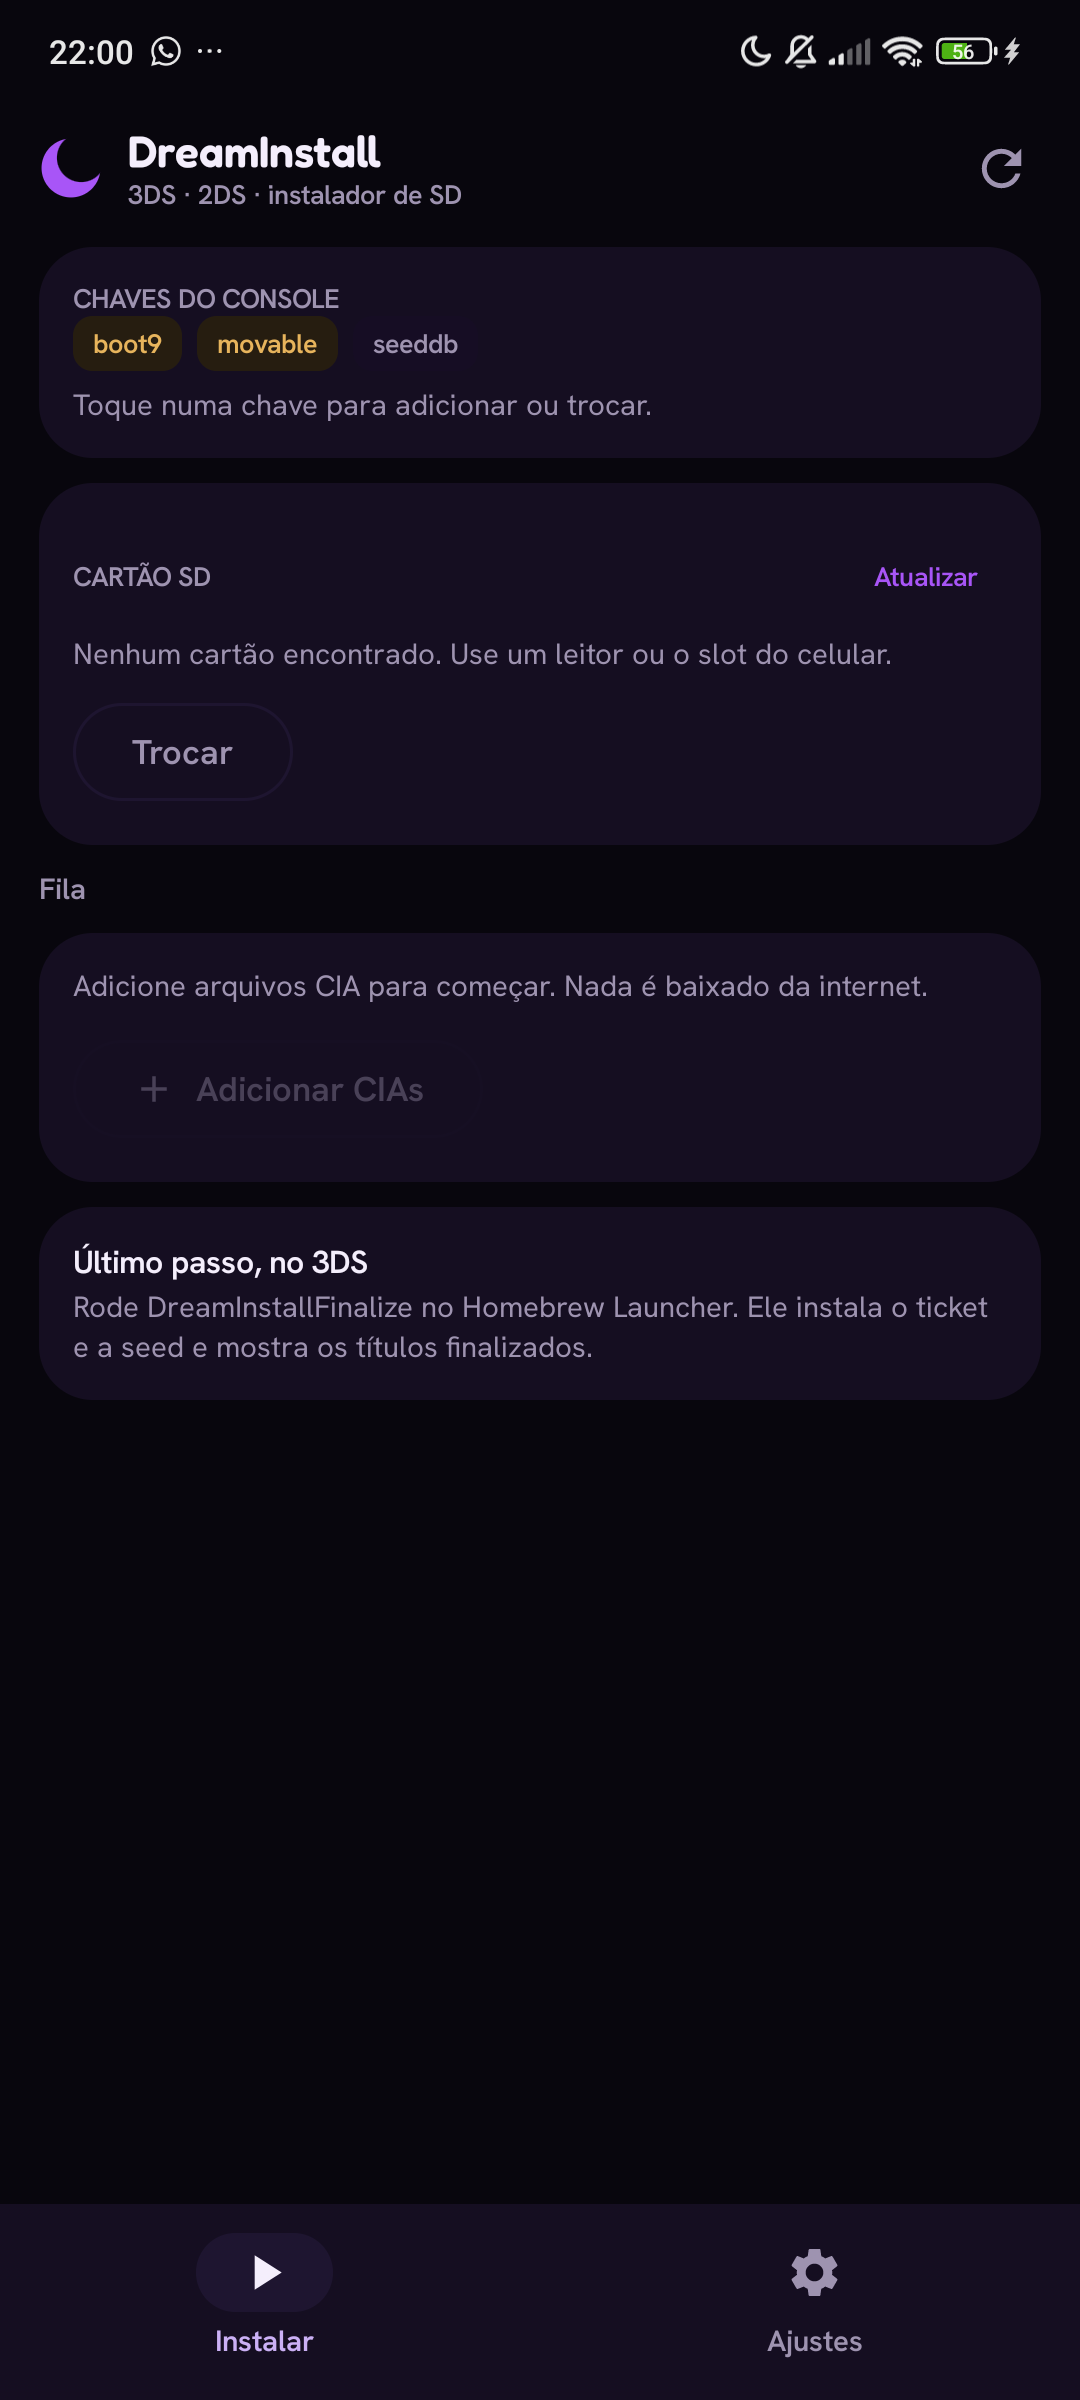
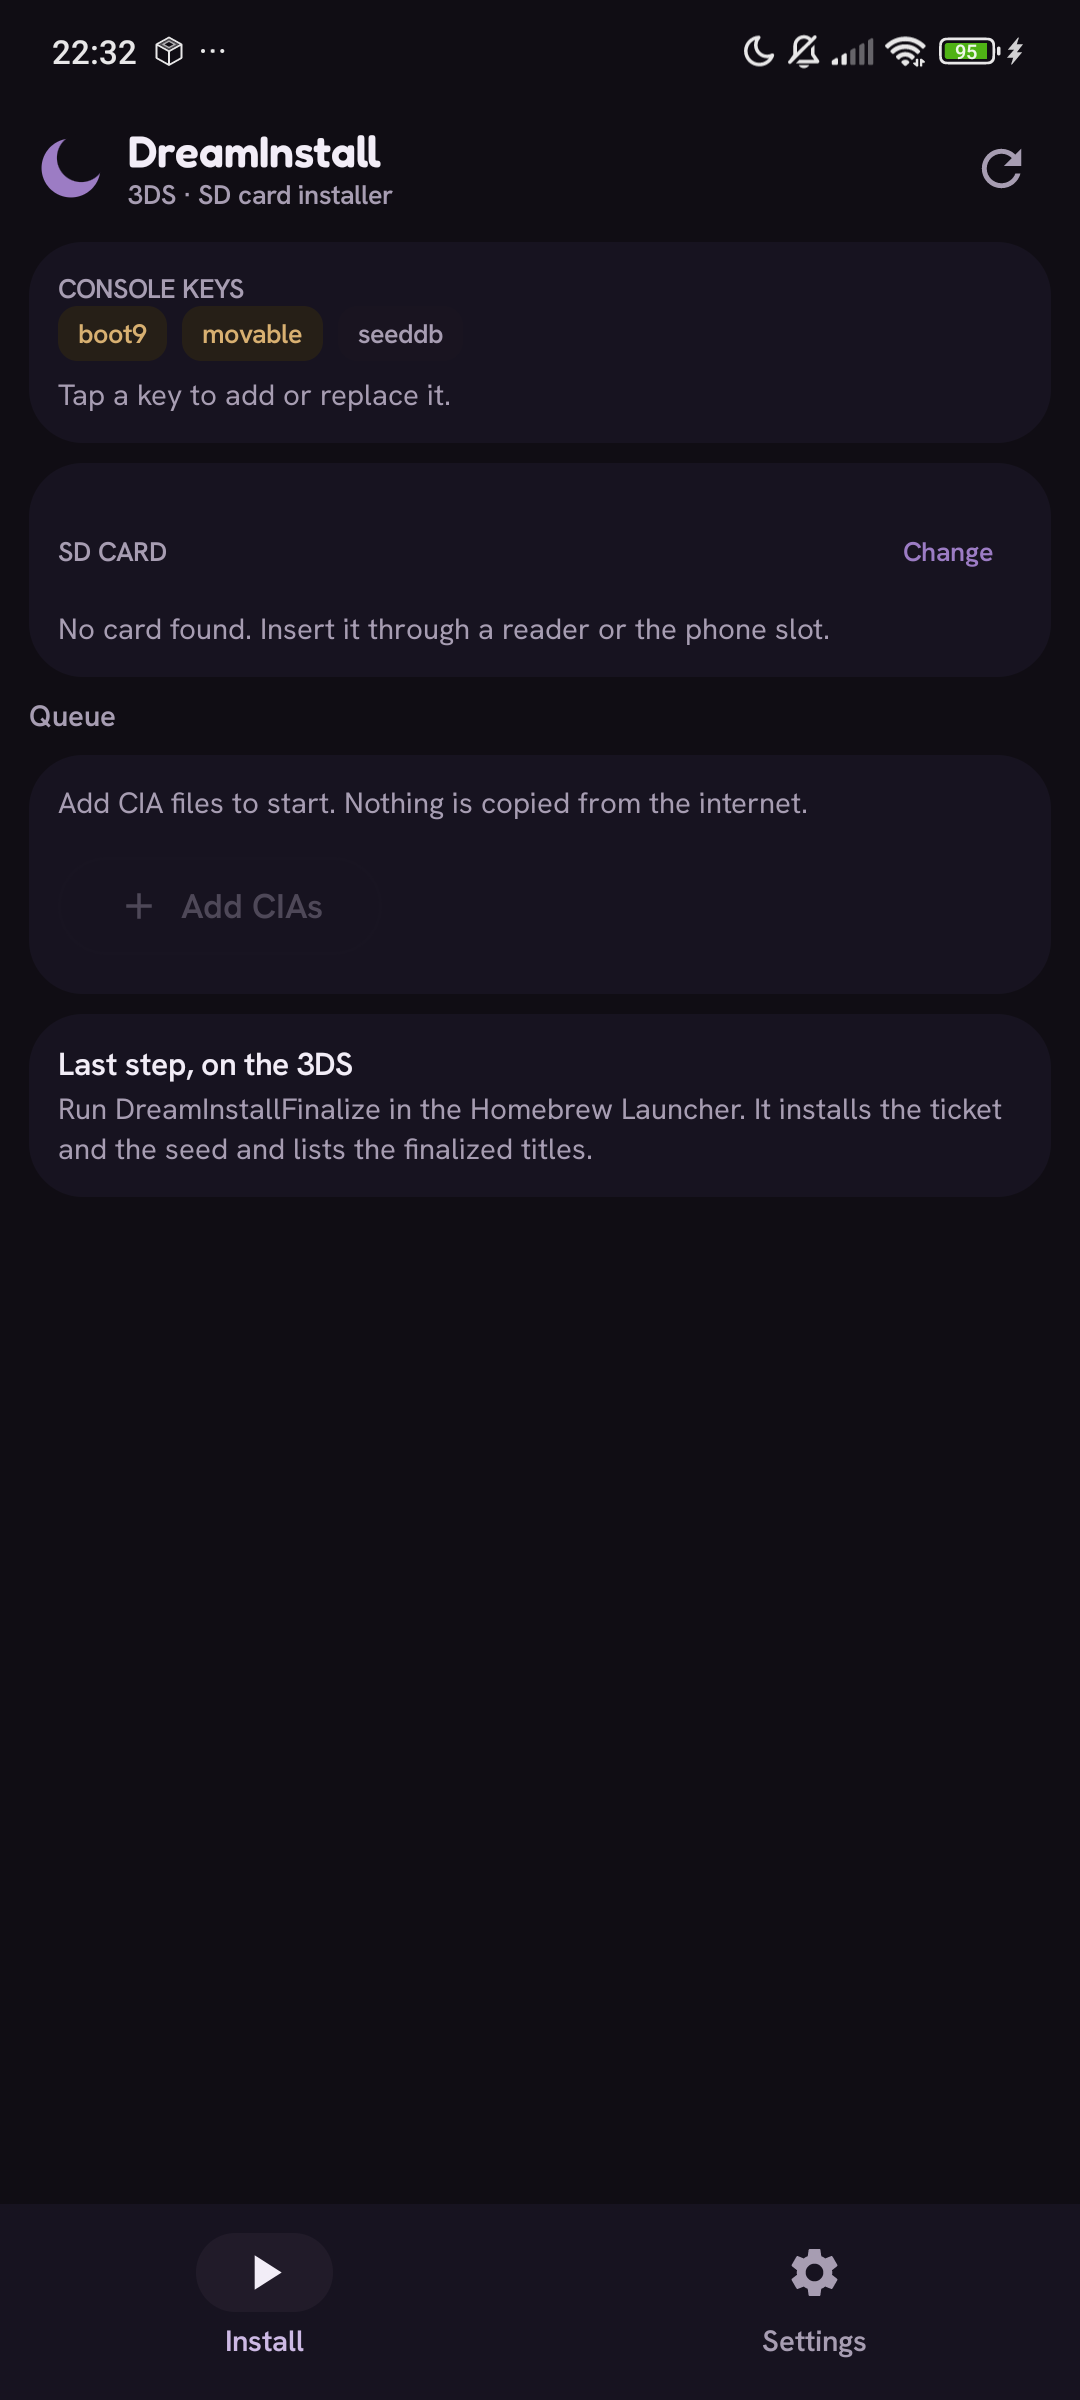
DreamInstall 1.4.1: muted violet palette and compact Material 3 layout

diff --git a/android/app/src/main/java/dev/oni/dreaminstall/ui/InstallScreen.kt b/android/app/src/main/java/dev/oni/dreaminstall/ui/InstallScreen.kt
@@ -77,6 +77,7 @@ import dev.oni.dreaminstall.core.TitleKind
 import dev.oni.dreaminstall.core.TitleState
 import dev.oni.dreaminstall.core.UpdateInfo
 import dev.oni.dreaminstall.core.formatSize
+import dev.oni.dreaminstall.ui.theme.LocalPalette
 import java.io.File
 import java.util.Locale
 import kotlin.math.max
@@ -145,12 +146,12 @@ fun InstallScreen(vm: AppViewModel, modifier: Modifier = Modifier) {
         LazyColumn(
             modifier = Modifier.fillMaxSize(),
             contentPadding = PaddingValues(
-                start = 16.dp,
-                end = 16.dp,
-                top = 4.dp,
-                bottom = if (queue.isNotEmpty() && !install.running) 92.dp else 24.dp,
+                start = 12.dp,
+                end = 12.dp,
+                top = 2.dp,
+                bottom = if (queue.isNotEmpty() && !install.running) 88.dp else 20.dp,
             ),
-            verticalArrangement = Arrangement.spacedBy(10.dp),
+            verticalArrangement = Arrangement.spacedBy(8.dp),
         ) {
             if (!granted) {
                 item { GrantCard(onOpenSettings = vm::openAllFilesSettings) }
@@ -199,7 +200,6 @@ fun InstallScreen(vm: AppViewModel, modifier: Modifier = Modifier) {
                     root = selectedRoot,
                     layoutReady = layout != null,
                     layoutError = layoutError,
-                    onRefresh = vm::refreshVolumes,
                     onChange = { showVolumes = true },
                 )
             }
@@ -309,8 +309,8 @@ fun InstallScreen(vm: AppViewModel, modifier: Modifier = Modifier) {
                     enabled = enabled,
                     modifier = Modifier
                         .fillMaxWidth()
-                        .padding(horizontal = 16.dp, vertical = 10.dp)
-                        .height(50.dp),
+                        .padding(horizontal = 12.dp, vertical = 8.dp)
+                        .height(46.dp),
                 ) {
                     Icon(Icons.Filled.PlayArrow, contentDescription = null)
                     Spacer(Modifier.size(8.dp))
@@ -442,13 +442,12 @@ private fun SdCard(
     root: File?,
     layoutReady: Boolean,
     layoutError: String?,
-    onRefresh: () -> Unit,
     onChange: () -> Unit,
 ) {
     DreamCard {
         SectionLabel(stringResource(R.string.sd_title)) {
-            TextButton(onClick = onRefresh) {
-                Text(stringResource(R.string.sd_refresh), style = MaterialTheme.typography.labelSmall)
+            TextButton(onClick = onChange) {
+                Text(stringResource(R.string.sd_change), style = MaterialTheme.typography.labelSmall)
             }
         }
         if (root == null) {
@@ -457,21 +456,19 @@ private fun SdCard(
                 style = MaterialTheme.typography.bodySmall,
                 color = MaterialTheme.colorScheme.onSurfaceVariant,
             )
-            Spacer(Modifier.height(8.dp))
-            OutlinedButton(onClick = onChange) { Text(stringResource(R.string.sd_change)) }
         } else {
             Row(verticalAlignment = Alignment.CenterVertically, horizontalArrangement = Arrangement.spacedBy(10.dp)) {
                 Surface(
                     color = MaterialTheme.colorScheme.primaryContainer,
                     shape = RoundedCornerShape(10.dp),
-                    modifier = Modifier.size(34.dp),
+                    modifier = Modifier.size(32.dp),
                 ) {
                     Box(contentAlignment = Alignment.Center) {
                         Icon(
                             Icons.Filled.List,
                             contentDescription = null,
                             tint = MaterialTheme.colorScheme.onPrimaryContainer,
-                            modifier = Modifier.size(18.dp),
+                            modifier = Modifier.size(17.dp),
                         )
                     }
                 }
@@ -498,12 +495,9 @@ private fun SdCard(
                         overflow = TextOverflow.Ellipsis,
                     )
                 }
-                TextButton(onClick = onChange) {
-                    Text(stringResource(R.string.sd_change), style = MaterialTheme.typography.labelSmall)
-                }
             }
             if (!layoutReady && layoutError != null) {
-                Spacer(Modifier.height(8.dp))
+                Spacer(Modifier.height(6.dp))
                 LineNote(layoutError, ChipTone.Warn, Icons.Filled.Warning)
             }
         }
@@ -534,7 +528,7 @@ private fun QueueCard(queue: List<QueueItem>, running: Boolean, onRemove: (Queue
         color = MaterialTheme.colorScheme.surfaceContainer,
         shape = MaterialTheme.shapes.large,
     ) {
-        Column(Modifier.padding(horizontal = 12.dp, vertical = 2.dp)) {
+        Column(Modifier.padding(horizontal = 10.dp, vertical = 1.dp)) {
             queue.forEachIndexed { index, item ->
                 if (index > 0) {
                     HorizontalDivider(color = MaterialTheme.colorScheme.surfaceContainerHighest)
@@ -548,7 +542,7 @@ private fun QueueCard(queue: List<QueueItem>, running: Boolean, onRemove: (Queue
 @Composable
 private fun QueueRow(item: QueueItem, running: Boolean, onRemove: () -> Unit) {
     Row(
-        Modifier.fillMaxWidth().padding(vertical = 9.dp),
+        Modifier.fillMaxWidth().padding(vertical = 8.dp),
         verticalAlignment = Alignment.CenterVertically,
         horizontalArrangement = Arrangement.spacedBy(10.dp),
     ) {
@@ -571,7 +565,7 @@ private fun QueueRow(item: QueueItem, running: Boolean, onRemove: () -> Unit) {
                 Text(
                     item.message,
                     style = MaterialTheme.typography.bodySmall,
-                    color = Color(0xFFE7B45C),
+                    color = Color(LocalPalette.current.warn),
                     maxLines = 2,
                     overflow = TextOverflow.Ellipsis,
                 )
@@ -579,7 +573,7 @@ private fun QueueRow(item: QueueItem, running: Boolean, onRemove: () -> Unit) {
                 Text(
                     stringResource(R.string.error_seed_missing),
                     style = MaterialTheme.typography.bodySmall,
-                    color = Color(0xFFE7B45C),
+                    color = Color(LocalPalette.current.warn),
                 )
             }
         }
@@ -674,14 +668,14 @@ private fun ResultCard(vm: AppViewModel, state: InstallState) {
             Text(
                 stringResource(R.string.result_done, result.done.size),
                 style = MaterialTheme.typography.titleSmall,
-                color = Color(0xFF8FE3B0),
+                color = Color(LocalPalette.current.ok),
             )
         }
         if (result.failed.isNotEmpty()) {
             Text(
                 stringResource(R.string.result_failed, result.failed.size),
                 style = MaterialTheme.typography.titleSmall,
-                color = Color(0xFFF08A80),
+                color = Color(LocalPalette.current.bad),
             )
             result.failed.entries.take(6).forEach { (name, reason) ->
                 Text(

diff --git a/android/app/src/main/java/dev/oni/dreaminstall/ui/SettingsScreen.kt b/android/app/src/main/java/dev/oni/dreaminstall/ui/SettingsScreen.kt
@@ -26,7 +26,6 @@ import androidx.compose.material3.CircularProgressIndicator
 import androidx.compose.material3.HorizontalDivider
 import androidx.compose.material3.Icon
 import androidx.compose.material3.MaterialTheme
-import androidx.compose.material3.OutlinedButton
 import androidx.compose.material3.Surface
 import androidx.compose.material3.Switch
 import androidx.compose.material3.Text
@@ -41,6 +40,7 @@ import androidx.compose.ui.Modifier
 import androidx.compose.ui.draw.clip
 import androidx.compose.ui.graphics.Color
 import androidx.compose.ui.res.stringResource
+import androidx.compose.ui.text.style.TextOverflow
 import androidx.compose.ui.unit.dp
 import androidx.lifecycle.compose.collectAsStateWithLifecycle
 import dev.oni.dreaminstall.AppViewModel
@@ -69,8 +69,8 @@ fun SettingsScreen(vm: AppViewModel, modifier: Modifier = Modifier) {
 
     LazyColumn(
         modifier = modifier.fillMaxSize(),
-        contentPadding = PaddingValues(start = 16.dp, end = 16.dp, top = 4.dp, bottom = 28.dp),
-        verticalArrangement = Arrangement.spacedBy(10.dp),
+        contentPadding = PaddingValues(start = 12.dp, end = 12.dp, top = 2.dp, bottom = 20.dp),
+        verticalArrangement = Arrangement.spacedBy(8.dp),
     ) {
         item {
             DreamCard {
@@ -175,27 +175,27 @@ fun SettingsScreen(vm: AppViewModel, modifier: Modifier = Modifier) {
 
         item {
             DreamCard {
-                SectionLabel(stringResource(R.string.settings_keys))
+                Row(
+                    Modifier.fillMaxWidth(),
+                    verticalAlignment = Alignment.CenterVertically,
+                    horizontalArrangement = Arrangement.SpaceBetween,
+                ) {
+                    Text(stringResource(R.string.settings_keys).uppercase(), style = MaterialTheme.typography.labelSmall, color = MaterialTheme.colorScheme.onSurfaceVariant)
+                    TextButton(
+                        onClick = { confirmForget = true },
+                        enabled = status.boot9 || status.movable || status.seeddb,
+                    ) {
+                        Text(stringResource(R.string.settings_clear_keys), style = MaterialTheme.typography.labelSmall)
+                    }
+                }
                 Row(horizontalArrangement = Arrangement.spacedBy(6.dp)) {
                     Chip("boot9", if (status.boot9) ChipTone.Ok else ChipTone.Warn, check = status.boot9)
                     Chip("movable", if (status.movable) ChipTone.Ok else ChipTone.Warn, check = status.movable)
                     Chip("seeddb", if (status.seeddb) ChipTone.Ok else ChipTone.Dim, check = status.seeddb)
                 }
                 if (status.error != null) {
-                    Spacer(Modifier.height(8.dp))
+                    Spacer(Modifier.height(6.dp))
                     LineNote(status.error!!, ChipTone.Bad)
-                }
-                Spacer(Modifier.height(10.dp))
-                Row(
-                    Modifier.fillMaxWidth(),
-                    horizontalArrangement = Arrangement.End,
-                ) {
-                    OutlinedButton(
-                        onClick = { confirmForget = true },
-                        enabled = status.boot9 || status.movable || status.seeddb,
-                    ) {
-                        Text(stringResource(R.string.settings_clear_keys))
-                    }
                 }
             }
         }
@@ -340,7 +340,7 @@ private fun SettingSwitch(
     divider: Boolean = true,
 ) {
     Row(
-        Modifier.fillMaxWidth().padding(vertical = 5.dp),
+        Modifier.fillMaxWidth().padding(vertical = 3.dp),
         verticalAlignment = Alignment.CenterVertically,
         horizontalArrangement = Arrangement.spacedBy(10.dp),
     ) {
@@ -350,6 +350,8 @@ private fun SettingSwitch(
                 description,
                 style = MaterialTheme.typography.bodySmall,
                 color = MaterialTheme.colorScheme.onSurfaceVariant,
+                maxLines = 1,
+                overflow = TextOverflow.Ellipsis,
             )
         }
         Switch(checked = checked, onCheckedChange = onChange)

diff --git a/android/app/src/main/java/dev/oni/dreaminstall/ui/theme/Palette.kt b/android/app/src/main/java/dev/oni/dreaminstall/ui/theme/Palette.kt
@@ -17,34 +17,46 @@ data class Palette(
     val border: Int,
     val text: Int,
     val dim: Int,
+    val ok: Int,
+    val okBg: Int,
+    val warn: Int,
+    val warnBg: Int,
+    val bad: Int,
+    val badBg: Int,
 )
 
-const val DEFAULT_ACCENT = 0xFFA855F7.toInt()
+const val DEFAULT_ACCENT = 0xFF9C7CC4.toInt()
 
 val ACCENTS: List<Pair<String, Int>> = listOf(
     "Purple" to DEFAULT_ACCENT,
-    "Indigo" to 0xFF5865F2.toInt(),
-    "Blue" to 0xFF3D8BFD.toInt(),
-    "Teal" to 0xFF20908A.toInt(),
-    "Green" to 0xFF2B9349.toInt(),
-    "Amber" to 0xFFB6721C.toInt(),
-    "Orange" to 0xFFCE622D.toInt(),
-    "Pink" to 0xFFCD53A6.toInt(),
+    "Indigo" to 0xFF6B6FA8.toInt(),
+    "Blue" to 0xFF5B7FA8.toInt(),
+    "Teal" to 0xFF4F8A87.toInt(),
+    "Green" to 0xFF5C8A63.toInt(),
+    "Amber" to 0xFFA07A45.toInt(),
+    "Orange" to 0xFFA86445.toInt(),
+    "Pink" to 0xFFA05C87.toInt(),
 )
 
 val DREAM = Palette(
     accent = DEFAULT_ACCENT,
-    onAccent = 0xFF14061F.toInt(),
-    highlight = 0xFFCBB0F5.toInt(),
-    soft = 0xFFE6DCF5.toInt(),
-    bg = 0xFF08060D.toInt(),
-    blob = 0xFF160D24.toInt(),
-    card = 0xFF150E21.toInt(),
-    track = 0xFF1E1530.toInt(),
-    selected = 0xFF2C1A45.toInt(),
-    border = 0xFF2E2342.toInt(),
-    text = 0xFFF4EEFC.toInt(),
-    dim = 0xFF9E93B0.toInt(),
+    onAccent = 0xFF17111F.toInt(),
+    highlight = 0xFFCDB9E4.toInt(),
+    soft = 0xFFE7DFF0.toInt(),
+    bg = 0xFF100D14.toInt(),
+    blob = 0xFF191420.toInt(),
+    card = 0xFF171320.toInt(),
+    track = 0xFF211B29.toInt(),
+    selected = 0xFF342A41.toInt(),
+    border = 0xFF2B2433.toInt(),
+    text = 0xFFF2EDF7.toInt(),
+    dim = 0xFFA79DB2.toInt(),
+    ok = 0xFF9CC7AC.toInt(),
+    okBg = 0xFF18251F.toInt(),
+    warn = 0xFFD8B071.toInt(),
+    warnBg = 0xFF261F17.toInt(),
+    bad = 0xFFD98C84.toInt(),
+    badBg = 0xFF2A1817.toInt(),
 )
 
 private data class Hsl(val h: Double, val s: Double, val l: Double)
@@ -121,5 +133,11 @@ fun paletteFor(accent: Int): Palette {
         border = follow(base.border),
         text = follow(base.text),
         dim = follow(base.dim),
+        ok = base.ok,
+        okBg = base.okBg,
+        warn = base.warn,
+        warnBg = base.warnBg,
+        bad = base.bad,
+        badBg = base.badBg,
     )
 }

diff --git a/android/app/src/main/java/dev/oni/dreaminstall/ui/Components.kt b/android/app/src/main/java/dev/oni/dreaminstall/ui/Components.kt
@@ -41,7 +41,7 @@ import dev.oni.dreaminstall.ui.theme.LocalPalette
 @Composable
 fun DreamCard(
     modifier: Modifier = Modifier,
-    padding: Dp = 14.dp,
+    padding: Dp = 12.dp,
     content: @Composable ColumnScope.() -> Unit,
 ) {
     Surface(
@@ -75,16 +75,16 @@ enum class ChipTone { Ok, Warn, Bad, Dim, Accent }
 fun Chip(text: String, tone: ChipTone = ChipTone.Dim, check: Boolean = false) {
     val palette = LocalPalette.current
     val content = when (tone) {
-        ChipTone.Ok -> Color(0xFF8FE3B0)
-        ChipTone.Warn -> Color(0xFFE7B45C)
-        ChipTone.Bad -> Color(0xFFF08A80)
+        ChipTone.Ok -> Color(palette.ok)
+        ChipTone.Warn -> Color(palette.warn)
+        ChipTone.Bad -> Color(palette.bad)
         ChipTone.Dim -> MaterialTheme.colorScheme.onSurfaceVariant
         ChipTone.Accent -> Color(palette.highlight)
     }
     val container = when (tone) {
-        ChipTone.Ok -> Color(0xFF12251C)
-        ChipTone.Warn -> Color(0xFF261D10)
-        ChipTone.Bad -> Color(0xFF2A1412)
+        ChipTone.Ok -> Color(palette.okBg)
+        ChipTone.Warn -> Color(palette.warnBg)
+        ChipTone.Bad -> Color(palette.badBg)
         ChipTone.Dim -> MaterialTheme.colorScheme.surfaceContainerHigh
         ChipTone.Accent -> MaterialTheme.colorScheme.primaryContainer
     }
@@ -168,10 +168,11 @@ fun rgb565(data: ByteArray): ImageBitmap? {
 
 @Composable
 fun LineNote(text: String, tone: ChipTone = ChipTone.Dim, icon: ImageVector? = null) {
+    val palette = LocalPalette.current
     val edge = when (tone) {
-        ChipTone.Ok -> Color(0xFF54D08A)
-        ChipTone.Warn -> Color(0xFFE7B45C)
-        ChipTone.Bad -> Color(0xFFE44C3E)
+        ChipTone.Ok -> Color(palette.ok)
+        ChipTone.Warn -> Color(palette.warn)
+        ChipTone.Bad -> Color(palette.bad)
         ChipTone.Dim -> MaterialTheme.colorScheme.outline
         ChipTone.Accent -> MaterialTheme.colorScheme.primary
     }

diff --git a/android/app/src/main/java/dev/oni/dreaminstall/ui/theme/Theme.kt b/android/app/src/main/java/dev/oni/dreaminstall/ui/theme/Theme.kt
@@ -78,7 +78,9 @@ fun DreamTheme(accent: Int, content: @Composable () -> Unit) {
             onSurfaceVariant = Color(palette.dim),
             surfaceContainer = Color(palette.card),
             surfaceContainerHigh = Color(palette.blob),
+            surfaceContainerHighest = Color(palette.border),
             surfaceContainerLow = Color(palette.bg),
+            surfaceContainerLowest = Color(palette.bg),
             outline = Color(palette.border),
             outlineVariant = Color(palette.track),
             error = Color(0xFFE44C3E),

diff --git a/README.pt-BR.md b/README.pt-BR.md
@@ -55,7 +55,7 @@ O finalizador próprio fica em `3ds/` e é copiado para o cartão pelo app.
 
 Baixe o APK em
 [Releases](https://github.com/eduhbarb/DreamInstall/releases/latest) e instale no celular. O
-arquivo da versão atual é `DreamInstall-1.4.0.apk`.
+arquivo da versão atual é `DreamInstall-1.4.1.apk`.
 
 - Android 11 ou mais novo, arm64.
 - O APK é assinado com uma chave de desenvolvimento, então não vem da Play Store.

diff --git a/README.md b/README.md
@@ -55,7 +55,7 @@ The finalizer lives in `3ds/` and is copied to the card by the app.
 
 Download the APK from
 [Releases](https://github.com/eduhbarb/DreamInstall/releases/latest) and install it on the phone.
-The current file is `DreamInstall-1.4.0.apk`.
+The current file is `DreamInstall-1.4.1.apk`.
 
 - Android 11 or newer, arm64.
 - The APK is signed with a development key, so it does not come from the Play Store.
